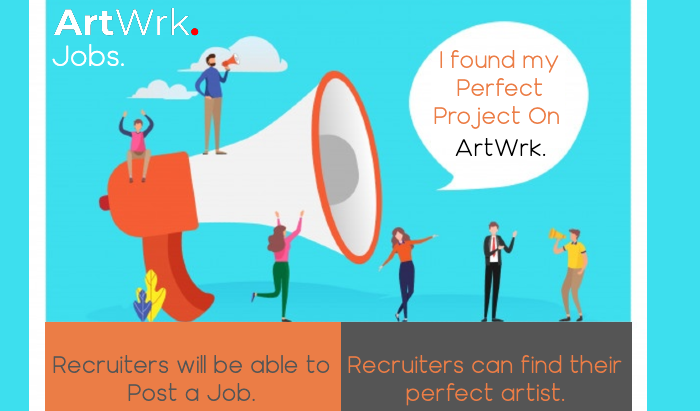
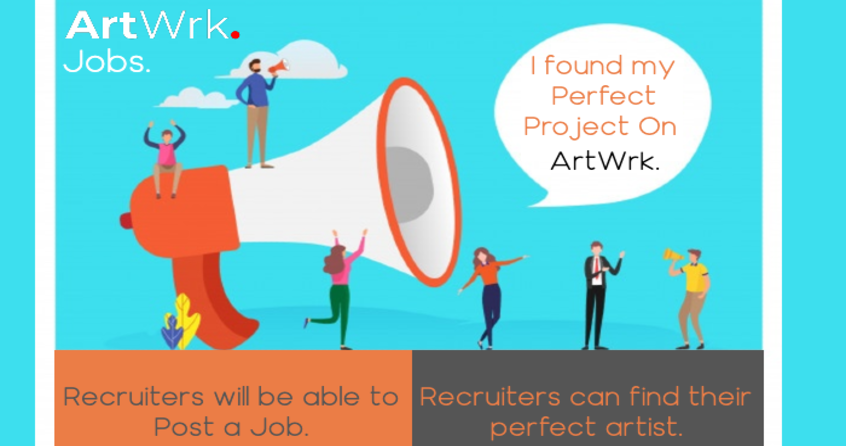
updated slideshow images in landing page

diff --git a/webapp/pages/surveyforms/landing.vue b/webapp/pages/surveyforms/landing.vue
@@ -112,7 +112,10 @@
                   Our Mission: To create an economic opportunity for each and
                   every artist at home in India by providing a professional
                   community platform of "Showcase, Discover, Connect and Sell
-                  Artwork" .
+                  Artwork" . <br />A community platform where right people would
+                  critique/rate your Artwork which would help you to thrive as
+                  an artist and also this evaluation would be maintained by your
+                  "ARTIST SCORE" on your profile.
                 </p>
               </v-container>
             </v-card-text>
@@ -193,7 +196,7 @@
                       class="survey-btn"
                       dark
                       ><a
-                        href="https://forms.gle/v7XVnF3RH2hLHbxQ9"
+                        href="https://forms.gle/rCjgDrfiZP6F1c2c8"
                         target="_blank"
                         >Take survey as a Recruiter</a
                       ></v-btn
@@ -228,13 +231,13 @@ export default {
       dialog: false,
       items: [
         {
-          src: '/landingcarousel/community.jpg'
+          src: '/landingcarousel/community.png'
         },
         {
           src: '/landingcarousel/recruiter.png'
         },
         {
-          src: '/landingcarousel/artistscore.jpg'
+          src: '/landingcarousel/artistscore.png'
         },
         {
           src: '/landingcarousel/timeline.jpg'
